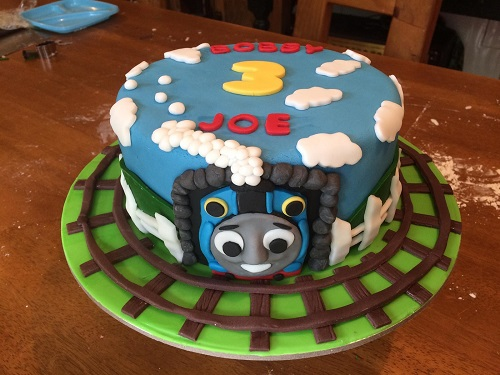
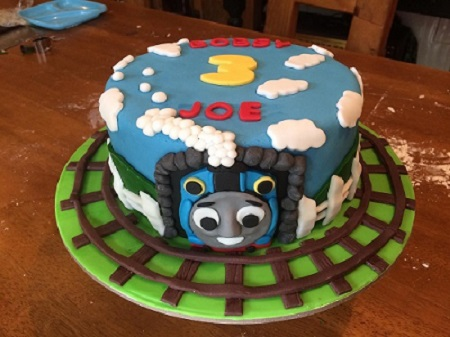
resized cakethree image. Used mobile first approach to adjust css in particular the new content i have added to index page

diff --git a/css/style.css b/css/style.css
@@ -5,23 +5,23 @@ body {
      padding-top: 70px;
      }
 .welcomeDiv {
-                display: flex;
-                margin-top: 30px;
+                display: inline-block;
+                margin-top: 100px;
                 width: 100%
                 }
 .welcomeParagraph {
                 flex: 2;
-                flex-direction: row;
+                flex-direction: column;
                 padding: 0 30px;
                 text-align: center;
                 margin-top: 45px;
                 font-family: 'Merriweather', serif;
-                font-size: 20px;
+                font-size: 18px;
                 color: navy;
             }
 #cakeThree {
                 flex: 2;
-                flex-direction: row;
+                flex-direction: column;
             }
 .requestCallBackDiv {
                 background-color: lightblue;
@@ -29,7 +29,7 @@ body {
                 height: 60px;
                 align-content: center;
                 text-align: center;
-                font-size: 30px;
+                font-size: 25px;
             }
 .requestCallBackLink {
                 color: palevioletred;
@@ -43,7 +43,7 @@ body {
                 height: 60px;
                 align-content: center;
                 text-align: center;
-                font-size: 25px;
+                font-size: 15px;
                 }
 #viewProducts {
               color: turquoise;
@@ -63,8 +63,9 @@ body {
 .socialMediaLink {
                 position: relative;
                 float: right;
-                left: -10px;
+                left: -5px;
                 }
+
 
 
 /* JQUERY CLASSES */
@@ -88,6 +89,7 @@ body {
 			border-radius: 10px; 
             padding: 0;	
             margin-top: 0;
+            position: relative;
 		}
 
 #logo {
@@ -101,9 +103,9 @@ body {
 			text-decoration: none;
 			flex:.5;
 			height: 30px;
-			padding:10px;
+			padding: 10px;
 			text-align: center;
-			font-size: 1.2em;
+			font-size: 1em;
 			
 	}
 
@@ -242,10 +244,13 @@ nav{
 	flex-direction: row;
     height: 80px;
 				
-	}
+    }
+a {
+    font-size: 20px;
+}
 #logo{
 	 flex: 2;
-	 font-size: 2em;
+	 font-size: 2.5em;
      margin-left: 10px;
      width: 650px;
      text-align: left;
@@ -270,13 +275,28 @@ nav{
 
 }
 
+/***NewLayout***/
 
-/* .container {
-    
-    height: 140px;
-    position: fixed;
-    
-    } */
+.welcomeDiv {
+    display: flex;
+    margin-top: 30px;
+}
+.welcomeParagraph {
+    flex-direction: row;
+    font-size: 20px;
+}
+#cakeThree {
+    flex-direction: row;
+}
+.requestCallBackDiv {
+    font-size: 30px;
+}
+.viewOurPortfolio {
+    font-size: 25px;
+}
+.socialMediaLink {
+    left: -10px;
+}
 
 
 }
